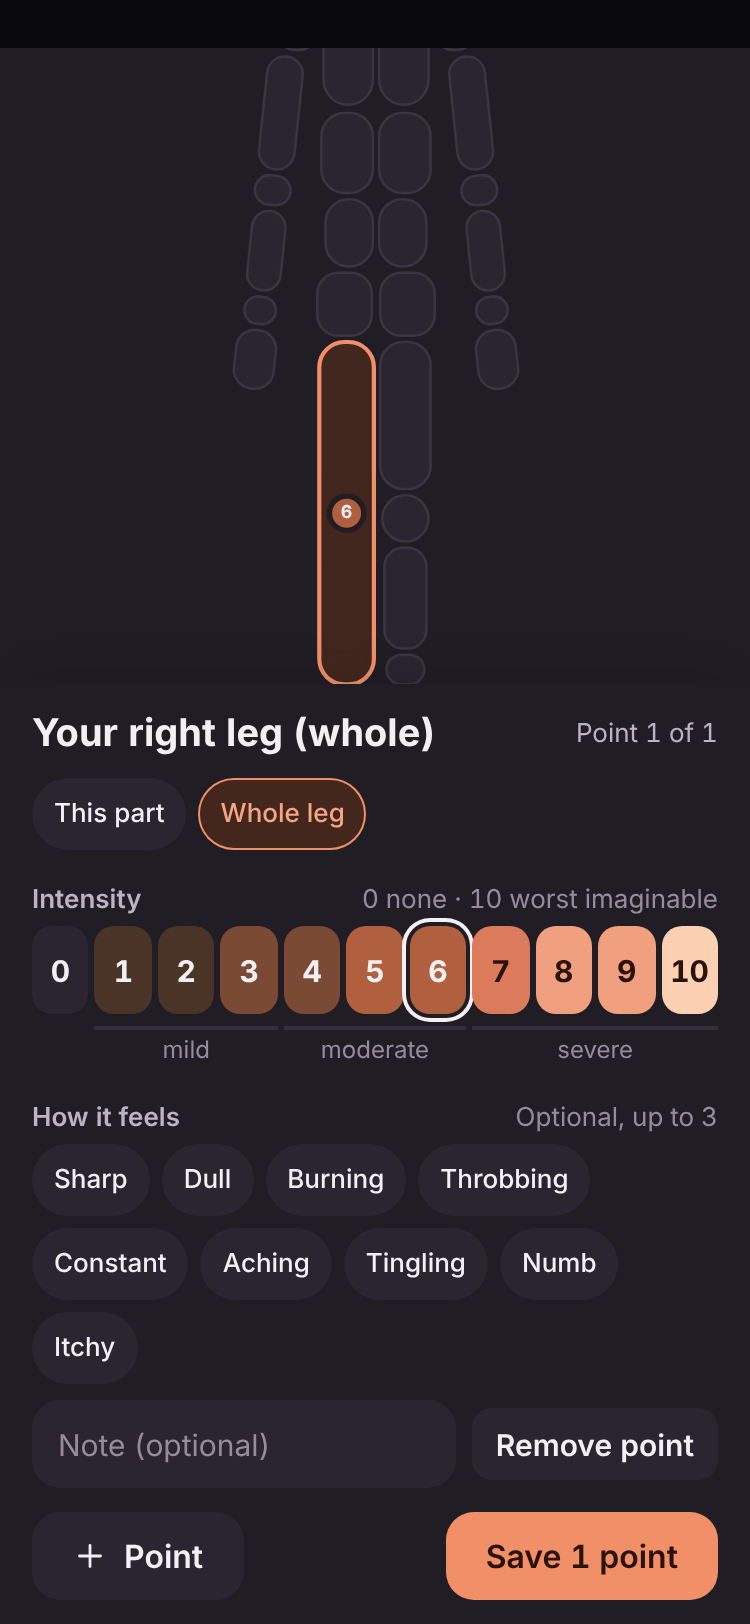
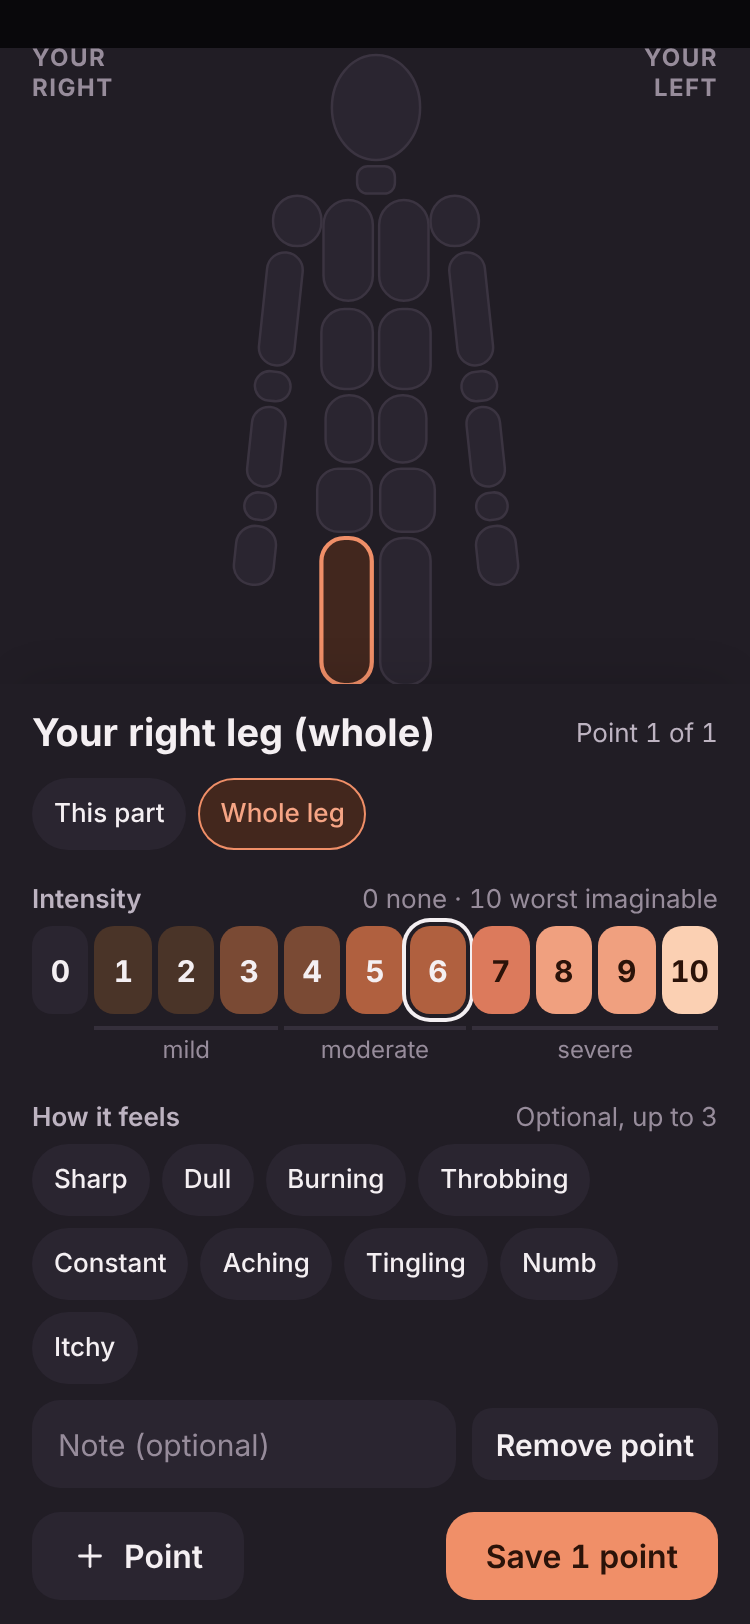
fix(bodymap): highlight the parts of a whole arm or leg, not one bar
Claude-Session: https://claude.ai/code/session_01PxrxK9pjmsb3qASX55sCVN

diff --git a/tests/e2e/screenshots.spec.ts b/tests/e2e/screenshots.spec.ts
@@ -1064,17 +1064,26 @@ for (const scheme of ['light', 'dark'] as const) {
 			await level(6);
 			await page.waitForTimeout(400);
 			await snap(page, 'whole-leg', scheme);
+			// Taller than a phone, so the whole leg shows above the panel.
+			await page.setViewportSize({ width: 375, height: 1150 });
+			await page.waitForTimeout(400);
+			await snap(page, 'whole-leg-tall', scheme);
+			await page.setViewportSize({ width: 375, height: 812 });
+			await fig.getByRole('button', { name: 'Your left forearm', exact: true }).click();
+			await wide.getByRole('button', { name: 'Whole arm', exact: true }).click();
+			await level(3);
+			await page.waitForTimeout(400);
+			await snap(page, 'whole-arm-front', scheme);
 			// Whole arm on the back view.
 			await sheet.getByRole('radio', { name: 'Back', exact: true }).click();
-			await fig.getByRole('button', { name: 'Your left forearm', exact: true }).click();
+			await fig.getByRole('button', { name: 'Your right forearm', exact: true }).click();
 			await wide.getByRole('button', { name: 'Whole arm', exact: true }).click();
 			await level(4);
 			await page.waitForTimeout(400);
 			await snap(page, 'whole-arm-back', scheme);
 			// Taller than a phone (as for the head zones) so the whole map and the tick show above the panel.
 			await page.setViewportSize({ width: 375, height: 1150 });
-			await sheet.getByRole('button', { name: 'Remove point' }).click();
-			await sheet.getByRole('button', { name: 'Remove point' }).click();
+			for (let i = 0; i < 3; i++) await sheet.getByRole('button', { name: 'Remove point' }).click();
 			await sheet.getByRole('radio', { name: 'Front', exact: true }).click();
 			await sheet.getByRole('button', { name: 'Head, close-up' }).click();
 			await page.waitForTimeout(400);

diff --git a/src/lib/bodymap/catalogue.ts b/src/lib/bodymap/catalogue.ts
@@ -710,12 +710,24 @@ function cached(key: string, make: () => Scene): Scene {
 	return scene;
 }
 
+/** A whole arm or leg is highlighted as the parts it stands for (so the highlight follows the limb); its box only places the dot. */
+function withLimbCovers(wide: Shape[], parts: readonly Shape[]): Shape[] {
+	return wide.map((w) => {
+		const names = w.region === 'whole_arm' ? ARM_PARTS : w.region === 'whole_leg' ? LEG_PARTS : null;
+		if (!names) return w;
+		return { ...w, cover: parts.filter((p) => p.side === w.side && names.includes(p.region)) };
+	});
+}
+
 export const mainScene = (view: View): Scene =>
 	cached(view, () => ({
 		space: spaceOf(view),
 		viewBox: VIEWBOXES[view],
 		shapes: build(view, view === 'front' ? FRONT : BACK),
-		wide: build(view, view === 'front' ? FRONT_WIDE : BACK_WIDE),
+		wide: withLimbCovers(
+			build(view, view === 'front' ? FRONT_WIDE : BACK_WIDE),
+			build(view, view === 'front' ? FRONT : BACK)
+		),
 		decor: [],
 		edges: edgeSides(view)
 	}));

diff --git a/src/lib/components/BodyMap.svelte b/src/lib/components/BodyMap.svelte
@@ -279,6 +279,7 @@
 								height={c.h}
 								rx={c.rx}
 								ry={c.ry}
+								transform={c.rot ? `rotate(${c.rot} ${c.px} ${c.py})` : undefined}
 								aria-hidden="true"
 								data-region={w.region}
 								data-side={w.side}
